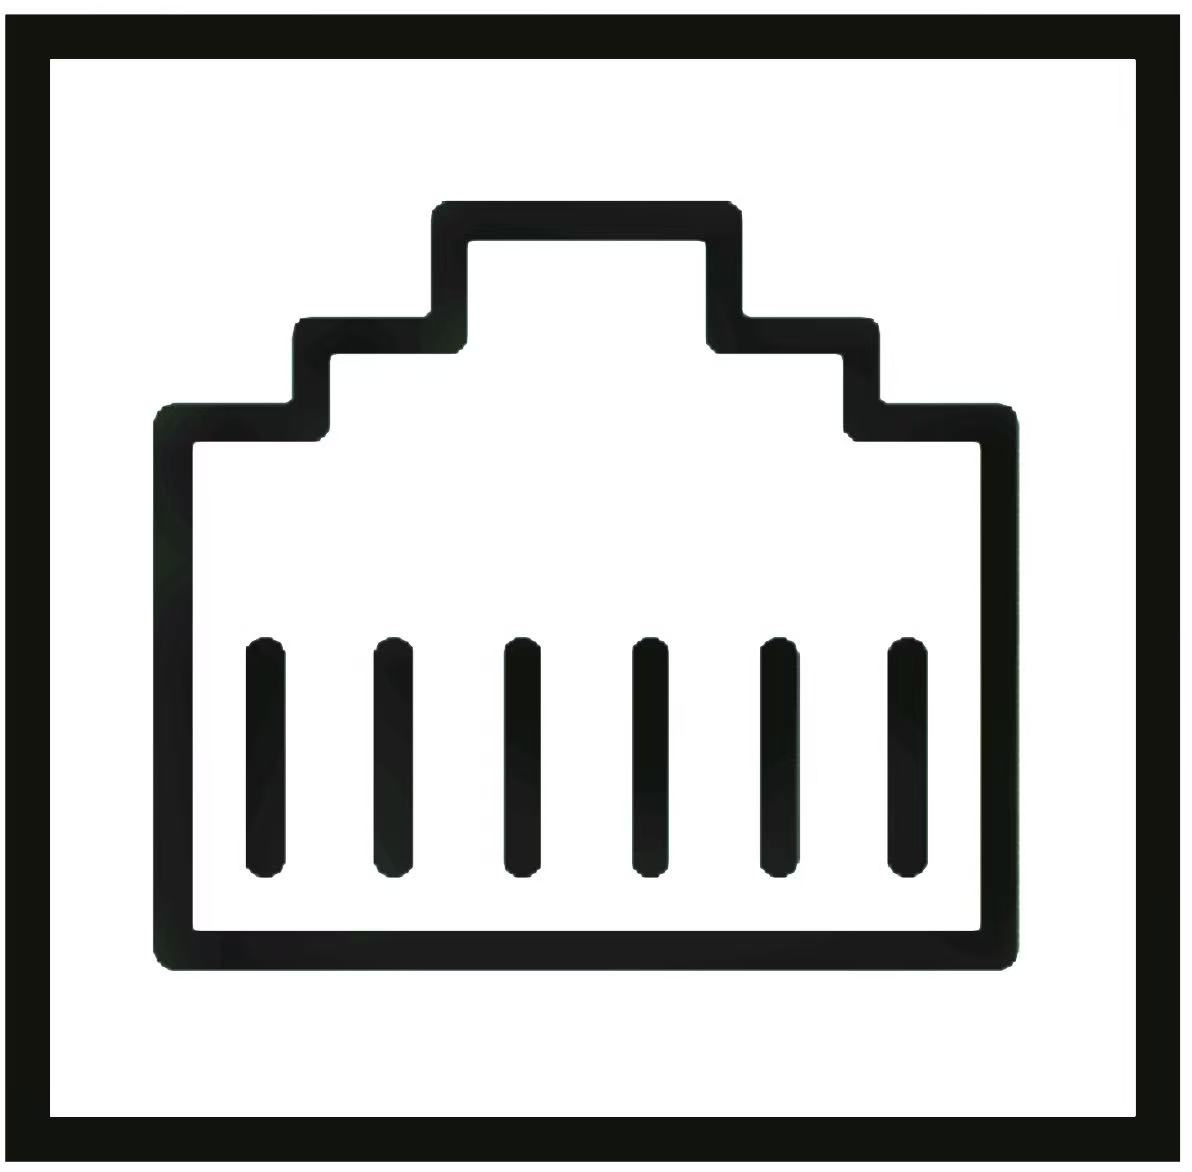
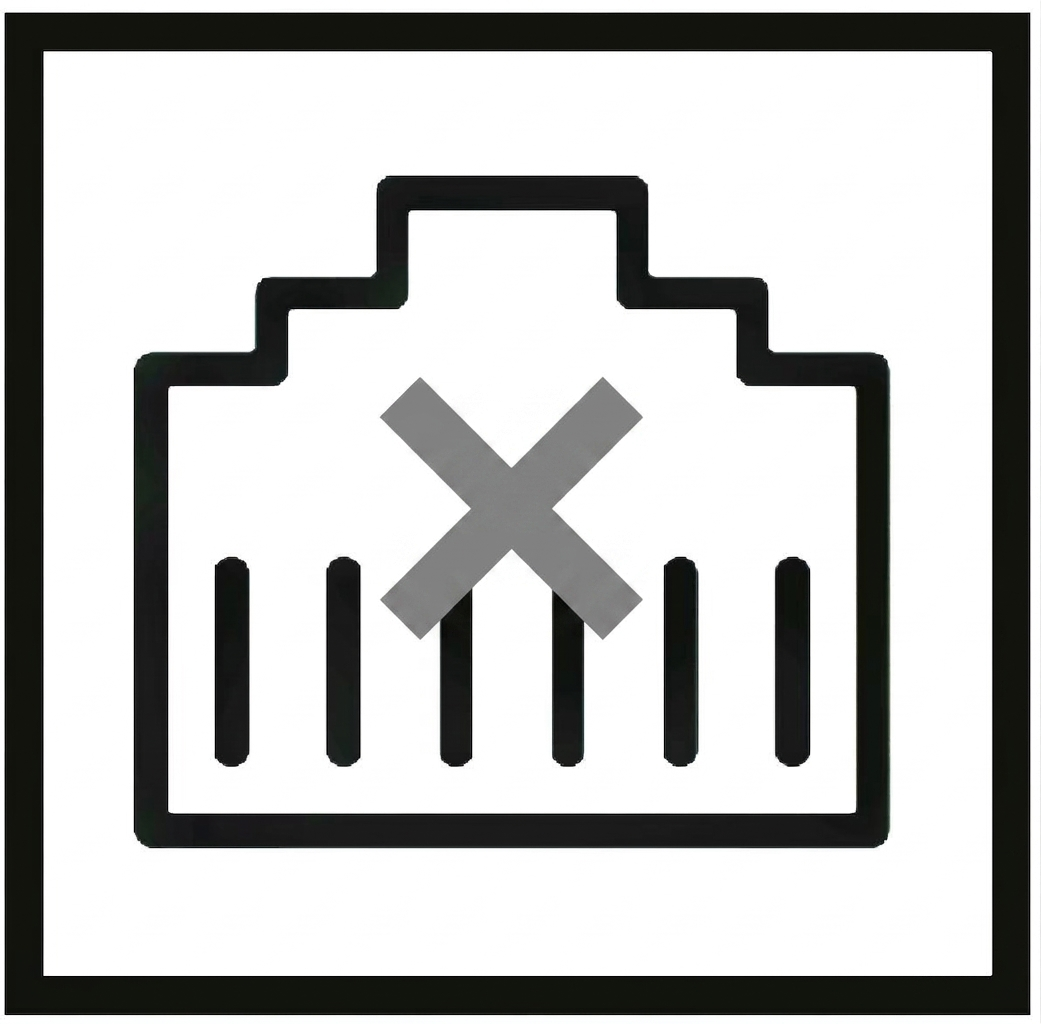
Update display

Changed region(s): [[0.3689, 0.375, 0.6148, 0.625], [0.9837, 0.0312, 1.0, 1.0]]

diff --git a/project/wui/ace/content/dashboard.html b/project/wui/ace/content/dashboard.html
@@ -1164,7 +1164,7 @@
         <div class="pricing-box" id="switch" style="display: none;">
             <div class="widget-box widget-color-dark" id="switch-widget-box">
                 <div class="widget-header widget-header-flat widget-header-small">
-                    <h5 class="widget-title bigger lighter" data-i18n="Switch Ports"></h5>
+                    <h5 class="widget-title bigger lighter" data-i18n="Local Ports"></h5>
                 </div>
                 <div class="widget-body">
                     <div class="widget-main">

diff --git a/project/wui/ace/content/wisp.html b/project/wui/ace/content/wisp.html
@@ -51,9 +51,7 @@
         
 
         <div class="form-group">
-   <label class="col-sm-2 control-label no-padding-right"></label>
-    <div class="col-sm-10" style="max-width: 1000px;">
-      
+        <div class="col-sm-10" style="max-width: 1200px; float: none !important;margin: 0 auto !important;">
         <div class="table-responsive">
             <table class="table table-bordered table-striped">
                 <thead>
